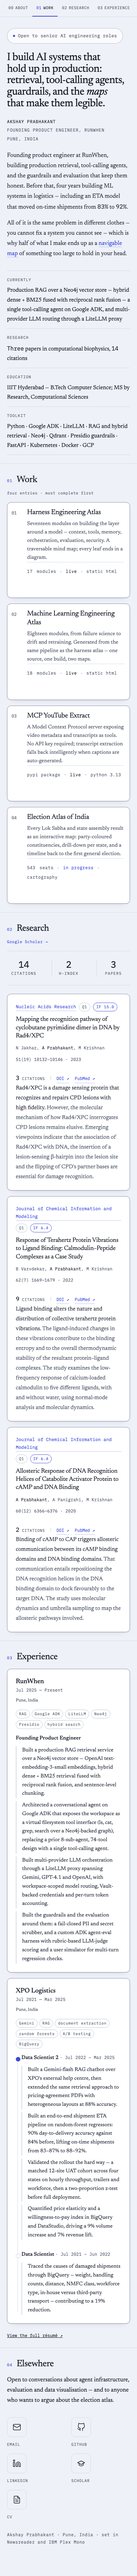
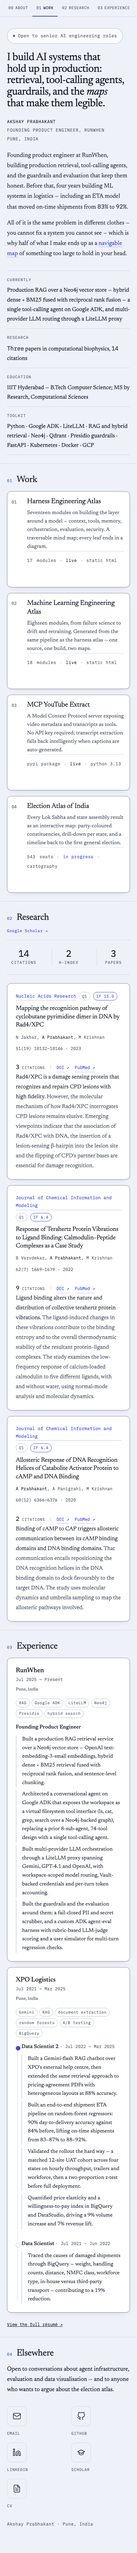
Drop two lines of editorial decoration
- Remove the Work section note ("four entries - most complete first").
  The count is redundant against four visible cards, and the ordering
  signal is already carried by the Election Atlas card's own "in progress"
  state chip.
- Remove the typeface credit from the footer colophon. A colophon is a real
  convention, but at the foot of a contact section nobody acts on it; it
  belongs on a dedicated colophon page alongside the performance budget.

Design renders refreshed to match.

Changed region(s): [[0.0308, 0.0, 0.9231, 0.9968], [0.0615, 0.3427, 0.0923, 0.3738]]

diff --git a/index.html b/index.html
@@ -409,7 +409,7 @@ section::before{content:"";position:absolute;top:0;left:calc(-1 * var(--pad));ri
   </header>
 
   <section id="work">
-    <div class="shead"><span class="num">01</span><h2>Work</h2><span class="note">four entries · most complete first</span></div>
+    <div class="shead"><span class="num">01</span><h2>Work</h2></div>
     <ul class="work-grid">
       <li>
         <a class="card work-card" href="/work/harness-atlas/">
@@ -644,7 +644,7 @@ section::before{content:"";position:absolute;top:0;left:calc(-1 * var(--pad));ri
         <span class="lbl">CV</span>
       </a>
     </nav>
-    <p class="foot">Akshay Prabhakant · Pune, India · set in Newsreader and IBM Plex Mono</p>
+    <p class="foot">Akshay Prabhakant · Pune, India</p>
   </section>
 
 </main>
